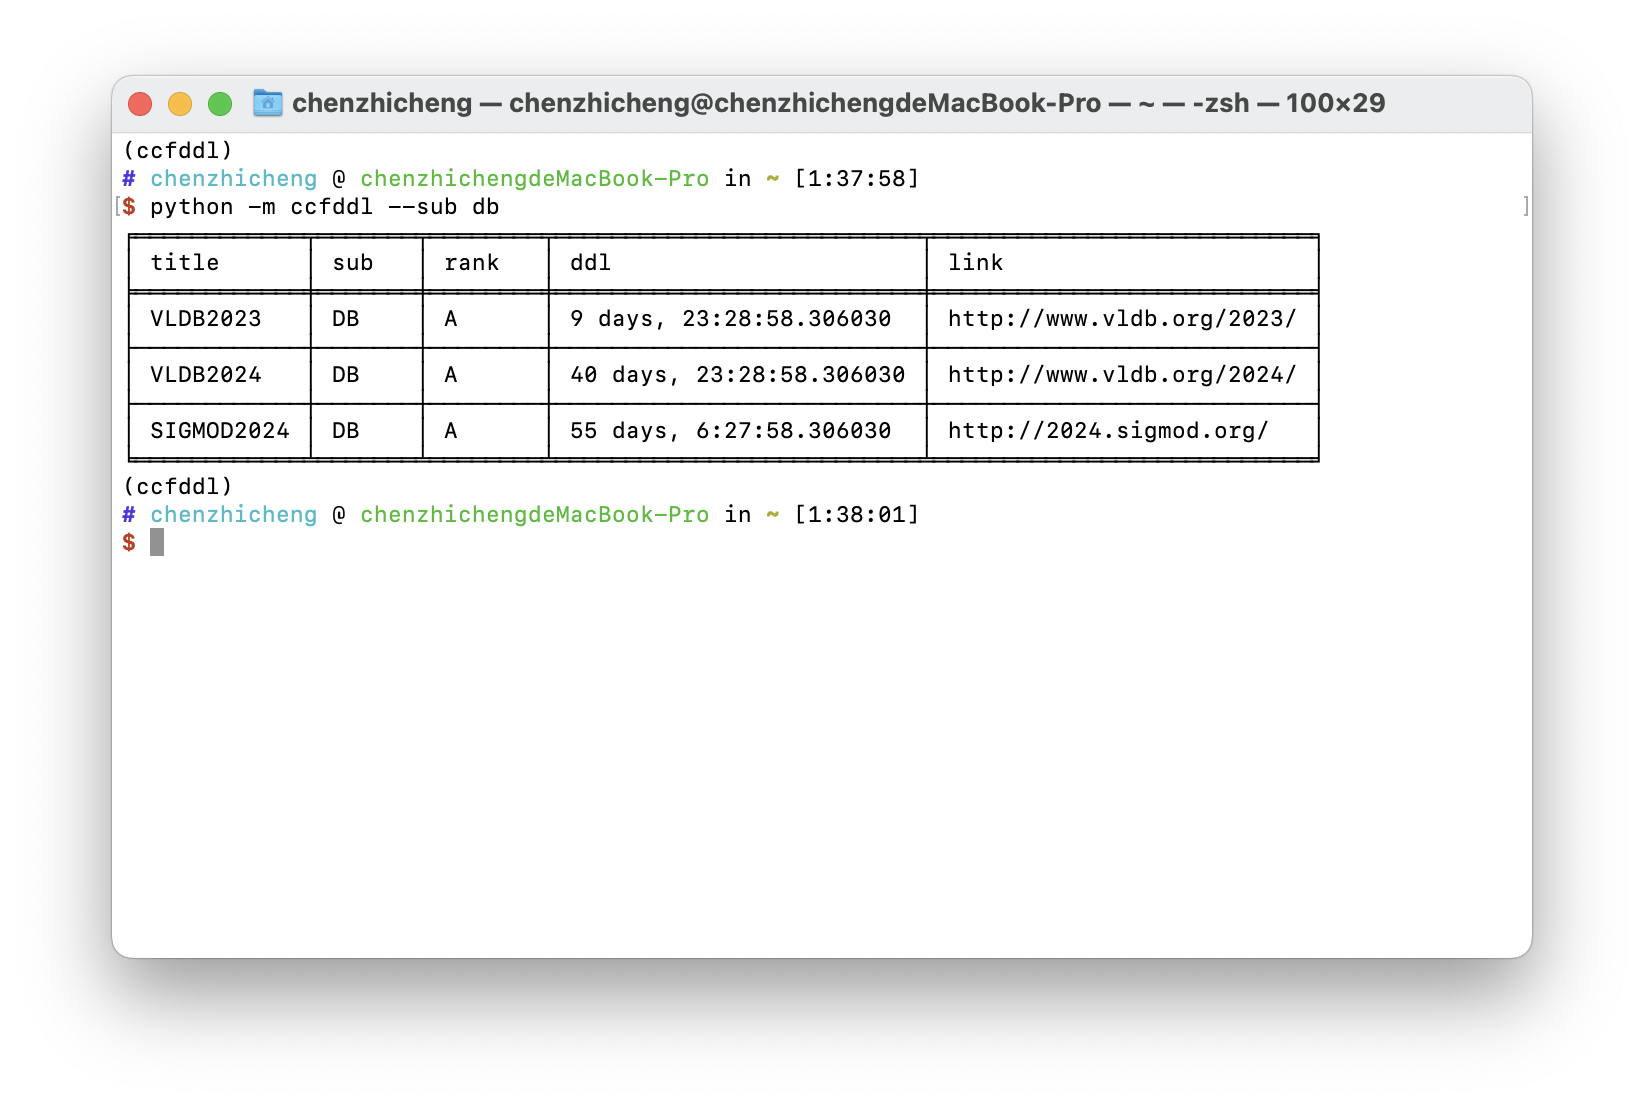
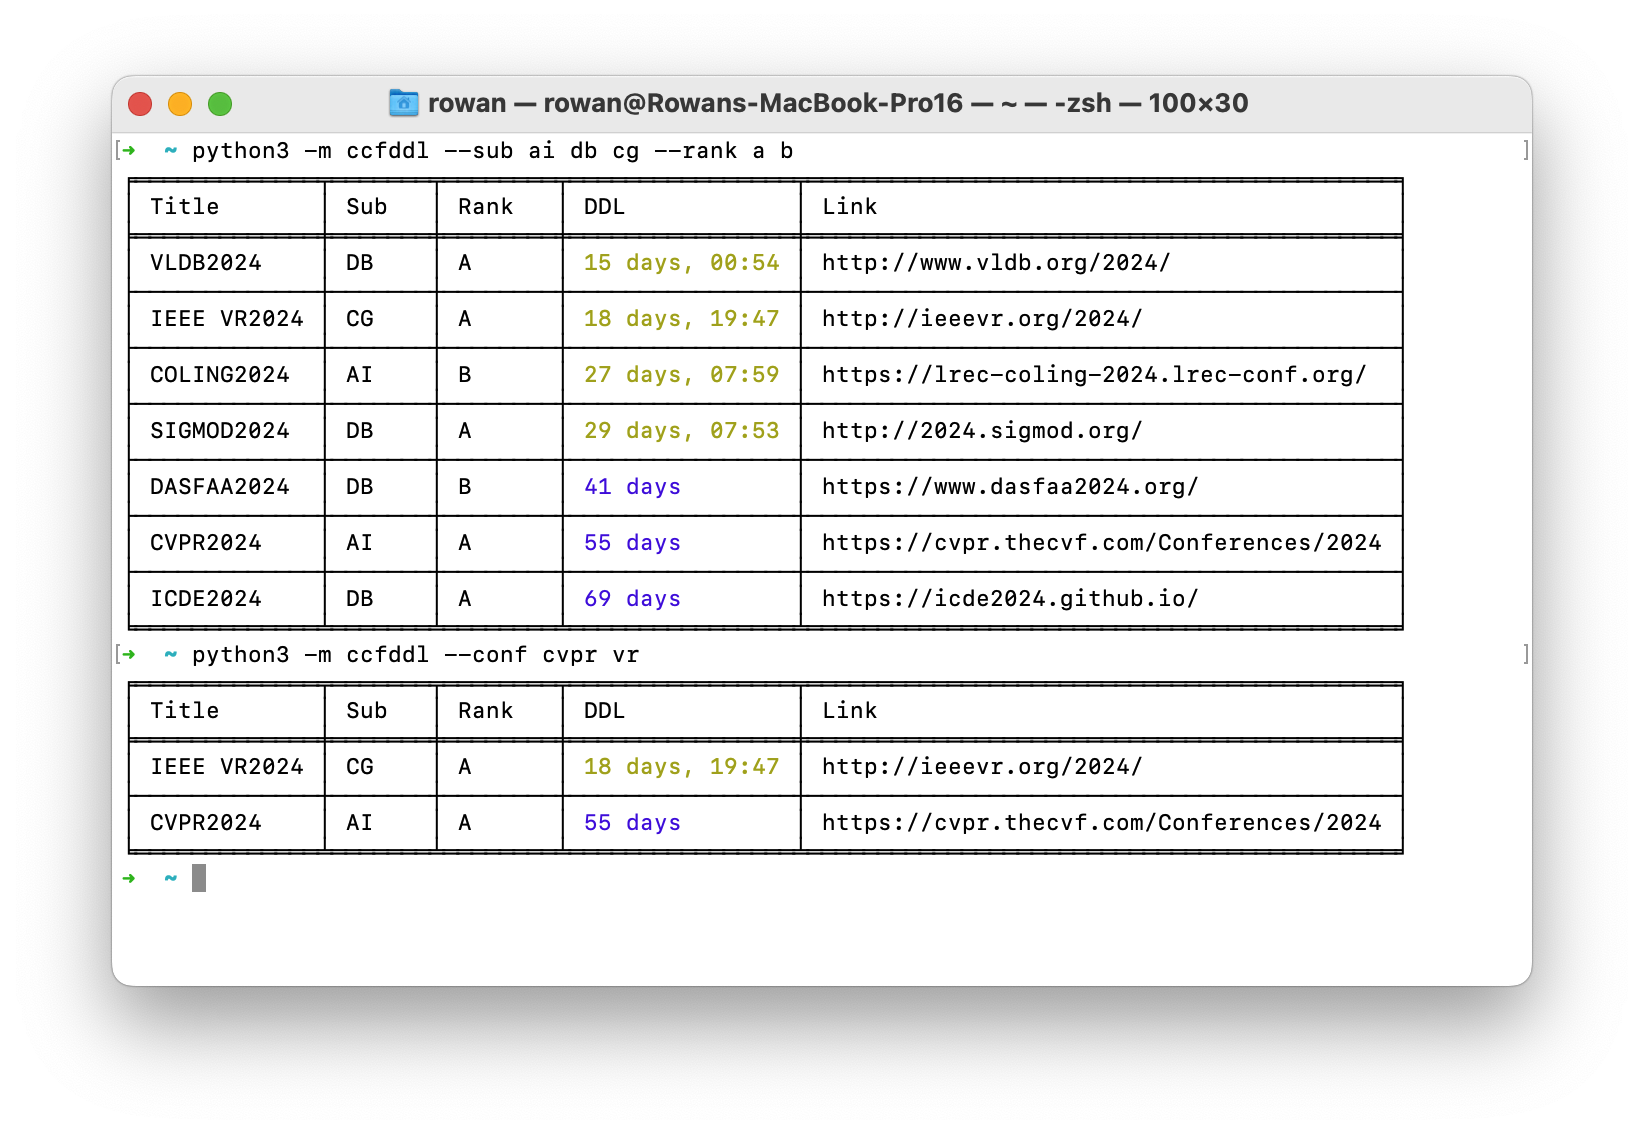
[Issue #302] Cli supports multiple filters and enhance the printed output (#303)
* [ADD] conf CSCW2024

* ccfddl-cli: suport multiple filter conditions

- parse multiple fitlers
- add help info for args
- minor change for filter logic

Fix [Issue #302](https://github.com/ccfddl/ccf-deadlines/issues/302)

* ccfddl-cli: time left more human-centric

    - show left time using `humanize`.
    - update doc and requirements.

    Fix [Issue #302](https://github.com/ccfddl/ccf-deadlines/issues/302)

* ccfddl-cli: colored left time

    - colorize text according how much time left
    - update req
    - minor: captalize the header

    Fix [Issue #302](https://github.com/ccfddl/ccf-deadlines/issues/302)

* [Update] main Readme python-cli screenshot.

diff --git a/cli/ccfddl/__main__.py b/cli/ccfddl/__main__.py
@@ -1,5 +1,7 @@
+import string
 import requests
 import yaml
+from termcolor import colored
 from argparse import ArgumentParser
 from copy import deepcopy
 from datetime import datetime
@@ -20,15 +22,43 @@ def parse_tz(tz):
 
 def parse_args():
     parser = ArgumentParser(description="cli for ccfddl")
-    parser.add_argument("--conf", type=str)
-    parser.add_argument("--sub", type=str)
-    parser.add_argument("--rank", type=str)
-    return parser.parse_args()
+    parser.add_argument("--conf", type=str, nargs='+', 
+                        help="A list of conference ids you want to filter, e.g.: '--conf CVPR ICML'")
+    parser.add_argument("--sub", type=str, nargs='+', 
+                        help="A list of subcategories ids you want to filter, e.g.: '--sub AI CG'")
+    parser.add_argument("--rank", type=str, nargs='+', 
+                        help="A list of ranks you want to filter, e.g.: '--rank C N'")
+    args = parser.parse_args()
+    # Convert all arguments to lowercase
+    for arg_name in vars(args):
+        arg_value = getattr(args, arg_name)
+        if arg_value:
+            setattr(args, arg_name, [arg.lower() for arg in arg_value])
+    return args
+
+
+def format_duraton(ddl_time: datetime, now: datetime) -> str:
+        duration = ddl_time - now
+        months, days= duration.days // 30, duration.days
+        hours, remainder= divmod(duration.seconds, 3600)
+        minutes, seconds = divmod(remainder, 60)
+
+        day_word_str = "days" if days > 1 else "day "
+        # for alignment
+        months_str, days_str, = str(months).zfill(2), str(days).zfill(2)
+        hours_str, minutes_str = str(hours).zfill(2), str(minutes).zfill(2)
+
+        if days < 1:
+            return colored(f'{hours_str}:{minutes_str}:{seconds}', "red")
+        if days < 30:
+            return colored(f'{days_str} {day_word_str}, {hours_str}:{minutes_str}', "yellow")
+        if days < 100:
+            return colored(f"{days_str} {day_word_str}", "blue")
+        return colored(f"{months_str} months", "green")
 
 
 def main():
     args = parse_args()
-
     yml_str = requests.get(
         "https://ccfddl.github.io/conference/allconf.yml").content.decode("utf-8")
     all_conf = yaml.safe_load(yml_str)
@@ -59,18 +89,31 @@ def main():
 
     all_conf_ext = sorted(all_conf_ext, key=lambda x: x['time_obj'])
 
-    table = [["title", "sub", "rank", "ddl", "link"]]
+    # This is not an elegant solution. 
+    # The purpose is to keep the above logic untouched, 
+    # return alpha id(conf name) without digits(year)
+    def alpha_id(with_digits: string) -> string:
+        return ''.join(char for char in with_digits.lower() if char.isalpha())
+    
+    table = [["Title", "Sub", "Rank", "DDL", "Link"]]
+    # Filter intersection by args
     for x in all_conf_ext:
         skip = False
-        if args.conf and args.conf.lower() not in x["id"].lower():
+        if args.conf and alpha_id(x["id"]) not in args.conf:
             skip = True
-        if args.sub and args.sub.lower() not in x["sub"].lower():
+        if args.sub and alpha_id(x["sub"]) not in args.sub:
             skip = True
-        if args.rank and args.rank.lower() not in x["rank"].lower():
+        if args.rank and alpha_id(x["rank"]) not in args.rank:
             skip = True
-        if not skip:
-            table.append([x["title"], x["sub"], x["rank"],
-                          str(x["time_obj"] - now), x["link"]])
+        if skip:
+            continue
+        table.append(
+            [x["title"], 
+                x["sub"], 
+                x["rank"],
+                format_duraton(x["time_obj"], now),
+                x["link"]]
+            )
 
     print(tabulate(table, headers='firstrow', tablefmt='fancy_grid'))
 

diff --git a/cli/readme.md b/cli/readme.md
@@ -4,13 +4,19 @@ WIP
 
 ## install
 
-```
+```bash
 pip install -r req.txt
 python setup.py install
 ```
 
 ## usage
 
-```
+```bash
 python -m ccfddl
 ```
+
+| Argument | Type  | Description                          | Example            |
+| -------- | ----- | ------------------------------------ | ------------------ |
+| `--conf` | str[] | A list of conference IDs to filter.  | `--conf CVPR ICCV` |
+| `--sub`  | str[] | A list of subcategory IDs to filter. | `--sub AI ML`      |
+| `--rank` | str[] | A list of ranks to filter.           | `--rank A B`       |
